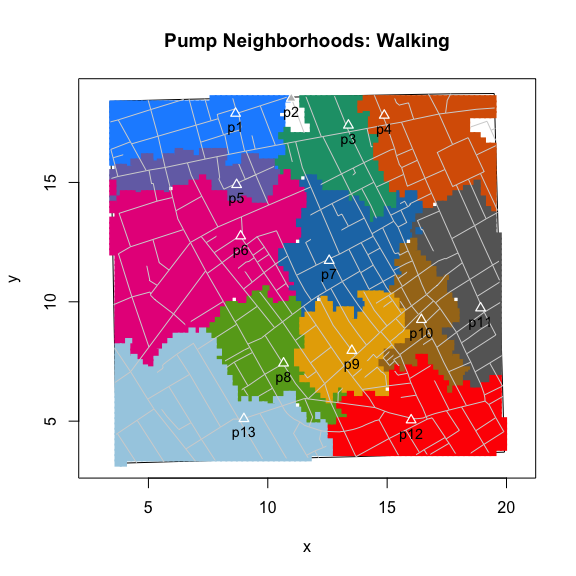
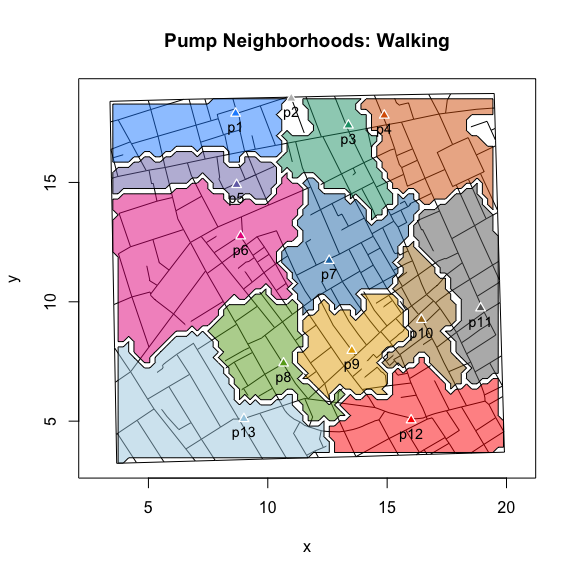
use polygon-based area graphs; drop alphahull::ashape()

diff --git a/README.md b/README.md
@@ -1,7 +1,6 @@
 
 <!-- README.md is generated from README.Rmd. Please edit that file -->
-[![CRAN\_Status\_Badge](http://www.r-pkg.org/badges/version/cholera)](https://cran.r-project.org/package=cholera)
-[![GitHub\_Status\_Badge](https://img.shields.io/badge/GitHub-0.3.0.9010-red.svg)](https://github.com/lindbrook/cholera/blob/master/NEWS)
+[![GitHub\_Status\_Badge](https://img.shields.io/badge/GitHub-0.3.9.9000-red.svg)](https://github.com/lindbrook/cholera/blob/master/NEWS)
 ### cholera: amend, augment and aid analysis of John Snow's 1854 cholera data
 
 John Snow's map of the 1854 cholera outbreak in London is one of the best known examples of data visualization and information design.
